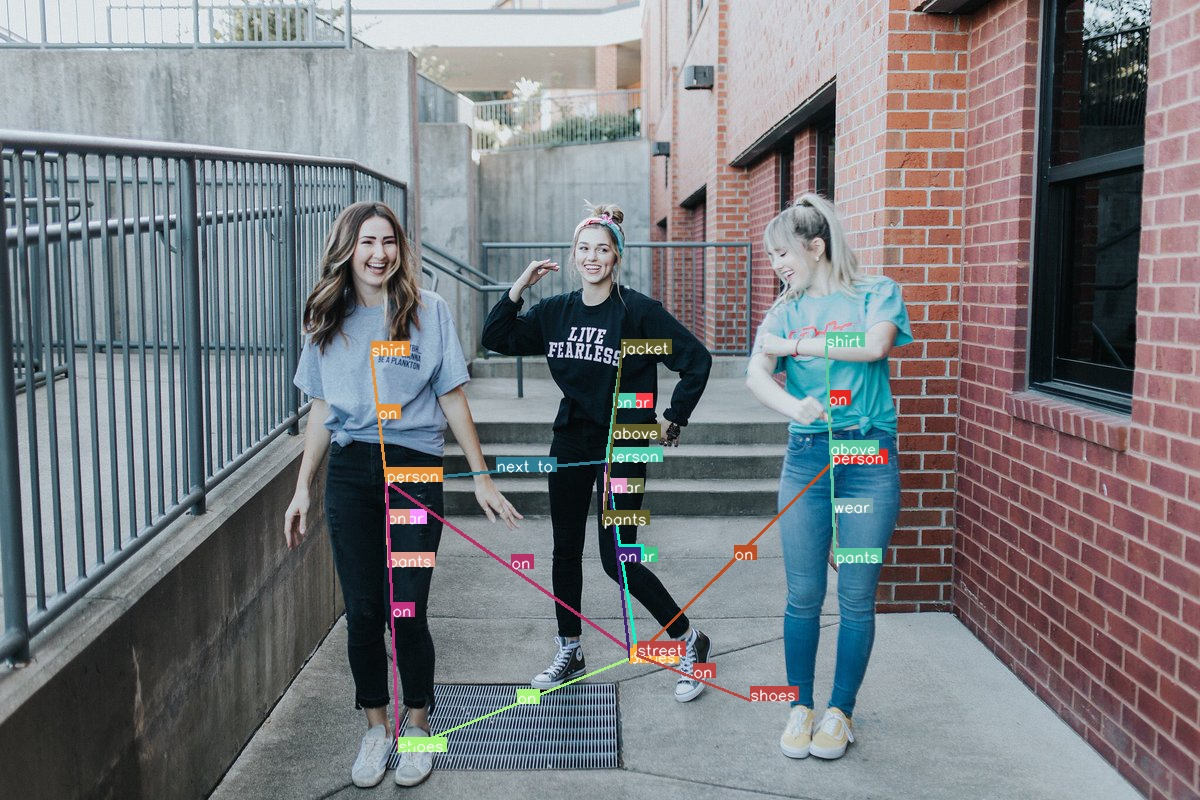
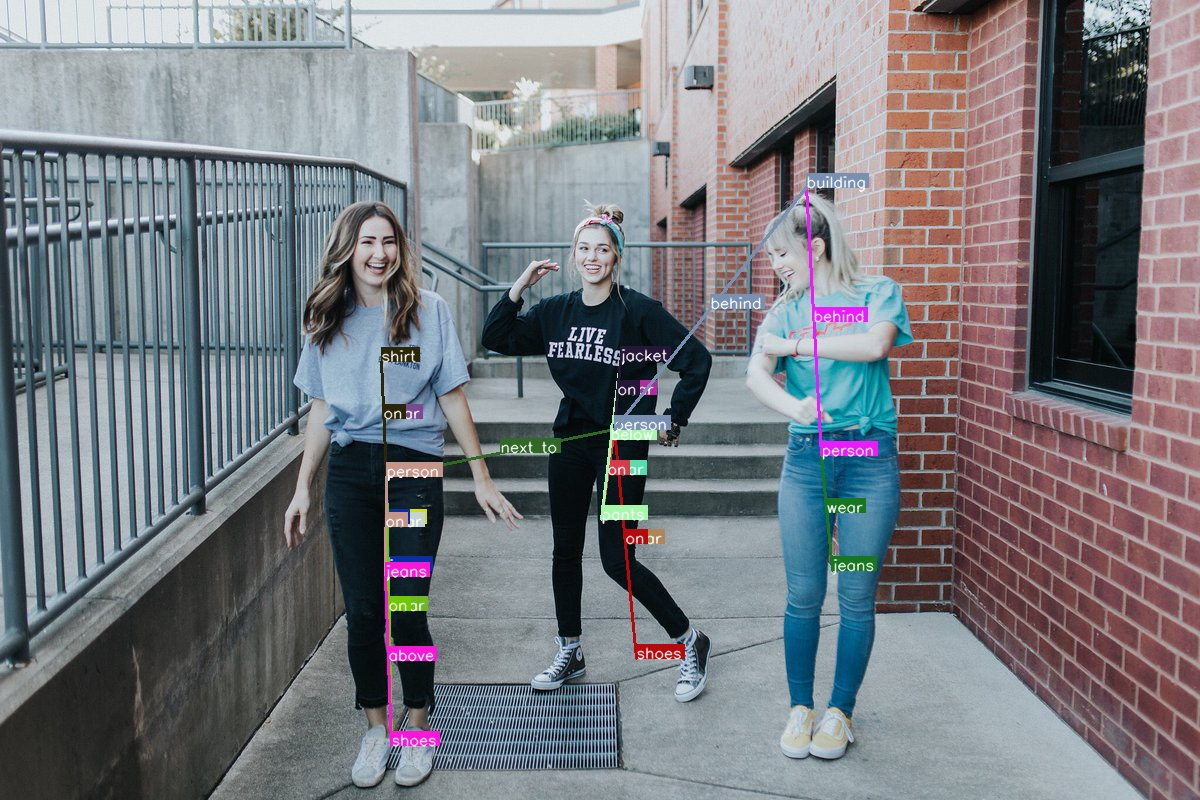
updated config

diff --git a/inference.py b/inference.py
@@ -81,9 +81,9 @@ obj_boxes = detections[0]['obj_boxes']
 sbj_labels = detections[0]['sbj_labels']
 obj_labels = detections[0]['obj_labels']
 pred_labels = detections[0]['predicates']
-boxes = detections[0]['boxes']
-labels = detections[0]['labels']
-scores = detections[0]['scores']
+# boxes = detections[0]['boxes']
+# labels = detections[0]['labels']
+# scores = detections[0]['scores']
 
 for sbj_box, obj_box, sbj_label, obj_label, pred  \
 		in zip(sbj_boxes, obj_boxes, sbj_labels, obj_labels, pred_labels):
@@ -110,7 +110,7 @@ for sbj_box, obj_box, sbj_label, obj_label, pred  \
 path = f"./results/rel-{opt.image_path.split('/')[-1]}"
 cv2.imwrite(path, draw_rlp)
 
-for bbox, label in zip(boxes, labels):
-	draw_objects = draw_boxes(draw_objects, bbox, label, _ind_to_class)
-path = f"./results/objs-{opt.image_path.split('/')[-1]}"
-cv2.imwrite(path, draw_objects)
+# for bbox, label in zip(boxes, labels):
+# 	draw_objects = draw_boxes(draw_objects, bbox, label, _ind_to_class)
+# path = f"./results/objs-{opt.image_path.split('/')[-1]}"
+# cv2.imwrite(path, draw_objects)

diff --git a/config.py b/config.py
@@ -59,7 +59,7 @@ __C.TRAIN.MAX_ITER = 40000
 __C.TRAIN.MOMENTUM = 0.9
 
 # L2 regularization hyperparameter
-__C.TRAIN.WEIGHT_DECAY = 5e-3
+__C.TRAIN.WEIGHT_DECAY = 0.0005
 
 # Whether to double the learning rate for bias
 __C.TRAIN.DOUBLE_BIAS = True
@@ -126,7 +126,7 @@ __C.MODEL.BATCH_SIZE_PER_IMAGE_REL = 128
 
 __C.MODEL.POSITIVE_FRACTION_REL = 0.5
 
-__C.MODEL.NORM_SCALE = 10.0
+__C.MODEL.NORM_SCALE = 3.0
 
 
 #

diff --git a/utils/boxes.py b/utils/boxes.py
@@ -446,7 +446,7 @@ def postprocess(result,               # type: List[Dict[str, Tensor]]
 		boxes = resize_boxes(boxes, im_s, o_im_s)
 		result[i]["obj_boxes"] = boxes
 
-		boxes = pred["boxes"]
-		boxes = resize_boxes(boxes, im_s, o_im_s)
-		result[i]["boxes"] = boxes
+		# boxes = pred["boxes"]
+		# boxes = resize_boxes(boxes, im_s, o_im_s)
+		# result[i]["boxes"] = boxes
 	return result
